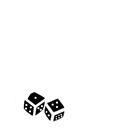
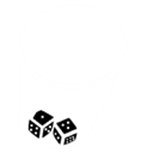
Dice Minigame Implemented

diff --git a/src/scenes/tavern/tavern_scene.py b/src/scenes/tavern/tavern_scene.py
@@ -2,16 +2,21 @@ import pygame
 from typing import Optional, Callable
 
 
-from .dice import Dice
+from .dice import Die
 from scenes.scene_manager import GameScenes
-from .render_minigame import render_minigame
+from .render_minigame import roll_dice
 from utils.container import render_container
-from utils.pygame_loads import Screen, load_image
-from backgrounds import TAVERN_IMG
-from utils.declared_buttons import (
-    ROLL_DICE,
-    EXIT_SCENE,
-)
+from utils.pygame_loads import load_image
+from backgrounds import TAVERN_IMG, DICE_TABLE
+from utils.declared_buttons import ROLL_DICE, RETURN, EXIT_SCENE
+
+minigame_start_time = 0
+return_click_time = 0
+last_game_result = None
+
+# Delays added to prevent rapid button clicks
+RETURN_DELAY = 400  # milliseconds
+ROLL_DICE_DELAY = 360  # milliseconds
 
 
 def render_tavern(
@@ -19,9 +24,10 @@ def render_tavern(
     mouse_event: pygame.event.Event,
     trigger_update: Optional[Callable] = None,
 ) -> None:
+    global minigame_start_time, return_click_time, last_game_result
     display_surface.blit(load_image(TAVERN_IMG), (0, 0))
 
-    # Display the container when ROLL_DICE is clicked
+    # Display the container
     container_width, container_height = 688, 360
     render_container(
         display_surface,
@@ -31,17 +37,40 @@ def render_tavern(
         container_height,
         "black-ish",
     )
+    current_time = pygame.time.get_ticks()
 
-    ROLL_DICE.draw_screen(display_surface)
-    if ROLL_DICE.update_scene(mouse_event, trigger_update):
-        Dice.minigame_active = True
+    # Show ROLL_DICE button if the minigame is not active
+    if not Die.minigame_active:
+        # Wait if the minigame has ended before showing ROLL_DICE again
+        if current_time - return_click_time >= ROLL_DICE_DELAY:
+            ROLL_DICE.draw_screen(display_surface)
+            if ROLL_DICE.update_scene(mouse_event, trigger_update):
+                Die.minigame_active = True
+                minigame_start_time = pygame.time.get_ticks()  # Record start time
 
-    if Dice.minigame_active:
-        render_minigame(display_surface, mouse_event, trigger_update)
+                # If there was a previous result, use it
+                if last_game_result:
+                    Die.dice_path = last_game_result
 
-    # Keep the dice face on screen after it has been rolled
-    if Dice.dice_path:
-        display_surface.blit(Dice.dice_path, (350, 200))  # Dice positioning
+    # Displays the dice minigame
+    if Die.minigame_active:
+        display_surface.fill((0, 0, 0))  # Make the background black
+        roll_dice(display_surface, mouse_event, trigger_update)
+
+        # Keep the result of minigame on screen after it has ended
+        if Die.dice_path:
+            display_surface.blit(load_image(DICE_TABLE), (97, 50))
+            display_surface.blit(Die.dice_path[0], (300, 150))  # Dice 1 positioning
+            display_surface.blit(Die.dice_path[1], (383, 180))  # Dice 2 positioning
+
+        # Wait for the delay before showing the RETURN button
+        if current_time - minigame_start_time >= RETURN_DELAY:
+            RETURN.draw_screen(display_surface)
+            if RETURN.update_scene(mouse_event, trigger_update):
+                Die.minigame_active = False
+                last_game_result = Die.dice_path  # Save the result of the dice roll
+                Die.dice_path = None  # Clear path to remove the minigame screen display
+                return_click_time = pygame.time.get_ticks()  # Record end minigame time
 
     # Goes back to town if exit button is clicked
     EXIT_SCENE.draw_screen(display_surface)

diff --git a/src/scenes/tavern/render_minigame.py b/src/scenes/tavern/render_minigame.py
@@ -1,31 +1,32 @@
 import pygame
 
-from .dice import Dice
+from .dice import Die
 from utils.pygame_loads import load_image
 from utils.declared_buttons import DICE_CUP
+from backgrounds import DICE_TABLE
 
-die: Dice = Dice()
+
+die1: Die = Die()
+die2: Die = Die()
 
 
-def render_minigame(
-    display_surface, mouse_event, trigger_update=None
-) -> pygame.Surface:
-    DICE_CUP.draw_screen(display_surface)
-    if DICE_CUP.update_scene(mouse_event, trigger_update):
-        dice_path = die.roll()
-        Dice.dice_path = load_image(dice_path)
+def roll_dice(display_surface, mouse_event, trigger_update=None) -> pygame.Surface:
+    # Only display the DICE_CUP if the dice have not been rolled yet
+    if not Die.dice_rolled:
+        display_surface.blit(load_image(DICE_TABLE), (97, 50))
+        DICE_CUP.draw_screen(display_surface)
+        if DICE_CUP.update_scene(mouse_event, trigger_update):
+            dice_path1 = die1.get_face()
+            dice_path2 = die2.get_face()
 
-        if die.face == 1:
-            print("You rolled a 1!")
-        elif die.face == 2:
-            print("You rolled a 2!")
-        elif die.face == 3:
-            print("You rolled a 3!")
-        elif die.face == 4:
-            print("You rolled a 4!")
-        elif die.face == 5:
-            print("You rolled a 5!")
-        elif die.face == 6:
-            print("You rolled a 6!")
+            Die.dice_path = [
+                load_image(dice_path1),
+                load_image(dice_path2),
+            ]
 
-        return Dice.dice_path
+            # Show the result for both dice
+            print(f"You rolled a {die1.face} and a {die2.face}!")
+
+            Die.dice_rolled = True
+
+            return Die.dice_path

diff --git a/src/scenes/tavern/dice.py b/src/scenes/tavern/dice.py
@@ -5,10 +5,11 @@ from utils.pygame_loads import load_image
 DICE_IMG_PATH = "D:/Projects/Python-studies/shop_shop_manager/images/ui/dice/"
 
 
-class Dice:
+class Die:
     dice_path = ""
     face = 1
     minigame_active = False
+    dice_rolled = False
 
     # The rolling cup (with the dice in it) is in the Button class
     def __init__(self, n=1):
@@ -28,7 +29,7 @@ class Dice:
         self.default_image = self.dice_images.get(n, self.dice_images[1])[1]
         self.current_image = self.default_image
 
-    def roll(self):
+    def get_face(self):
         """Rolls the dice, updates the current face image, and returns its path."""
         face_number = random.randint(1, 6)
         self.face = face_number

diff --git a/src/backgrounds.py b/src/backgrounds.py
@@ -6,7 +6,7 @@ PAPER_IMG = r"D:\Projects\Python-studies\shop_shop_manager\images\backgrounds\pa
 
 # Main Game Backgrounds
 TOWN_IMG = r"D:\Projects\Python-studies\shop_shop_manager\images\backgrounds\town_background.png"
-# Will add more later
+
 
 # Scenes Backgrounds
 SHOP_IMG = r"D:\Projects\Python-studies\shop_shop_manager\images\backgrounds\shop_background.png"
@@ -16,4 +16,9 @@ HOME_DAYLIGHT_IMG = (
 )
 HOME_NIGHT_IMG = (
     r"D:\Projects\Python-studies\shop_shop_manager\images\backgrounds\home_night.png"
+)
+
+# Mini-games
+DICE_TABLE = (
+    r"D:\Projects\Python-studies\shop_shop_manager\images\backgrounds\table.png"
 )

diff --git a/src/utils/declared_buttons.py b/src/utils/declared_buttons.py
@@ -25,7 +25,8 @@ HOME_BUTTON = Button(116, 350, text=None, type_tag="default")
 SETTINGS_BUTTON = Button(10, 6, text=None, type_tag="settings")
 
 
-# Mini-game Buttons
+# Minigame Buttons
 ROLL_DICE = Button(254, 5, "Roll Dice", type_tag="caption_btn")
-DICE_CUP = Button(215, 140, text=None, type_tag="dice_cup")
+RETURN = Button(254, 5, "Return", type_tag="caption_btn")
+DICE_CUP = Button(180, 75, text=None, type_tag="dice_cup")
 SLEEP = Button(254, 55, text="Sleep", type_tag="caption_btn")

diff --git a/src/utils/container.py b/src/utils/container.py
@@ -9,7 +9,10 @@ def render_container(
     height: int,
     color_name: str,
 ) -> pygame.Surface:
-    color_map = {"black-ish": (50, 50, 50, 128), "white-ish": (240, 240, 240, 128)}
+    color_map = {
+        "black-ish": (50, 50, 50, 128),
+        "white-ish": (240, 240, 240, 128),
+    }
 
     # Get the color from the dictionary, default to black-ish if not found
     color = color_map.get(color_name, (50, 50, 50, 128))

diff --git a/src/scenes/__init__.py b/src/scenes/__init__.py
@@ -5,5 +5,5 @@ from .home.home_scene import render_home
 from .home.counting_sheep import CountingSheep
 from .market_board import render_table
 from .tavern.tavern_scene import render_tavern
-from .tavern.render_minigame import render_minigame
+from .tavern.render_minigame import roll_dice
 from .settings_scene import render_settings

diff --git a/src/scenes/tavern/__init__.py b/src/scenes/tavern/__init__.py
@@ -1,2 +1,2 @@
 from .tavern_scene import render_tavern
-from .render_minigame import render_minigame
+from .render_minigame import roll_dice
